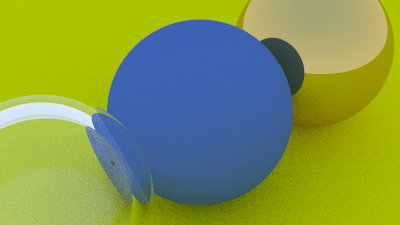
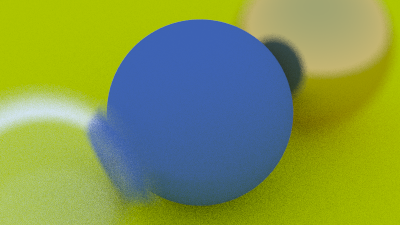
defocus blur

Changed region(s): [[0.0, 0.3733, 0.42, 1.0], [0.63, 0.0, 0.99, 0.4356], [0.57, 0.0, 0.63, 0.1556]]

diff --git a/src/camera.rs b/src/camera.rs
@@ -9,7 +9,6 @@ use super::Point;
 #[derive(Debug)]
 pub struct Camera {
     center: Point,
-    focal_length: f64,
     viewport: Viewport,
     samples: u32,
     max_depth: u32,
@@ -20,6 +19,10 @@ pub struct Camera {
     u: Vec3,
     v: Vec3,
     w: Vec3,
+    defocus_angle: f64,
+    focus_dist: f64,
+    defocus_disk_u: Vec3,
+    defocus_disk_v: Vec3,
 }
 
 impl Camera {
@@ -31,10 +34,11 @@ impl Camera {
         v_fov: f64,
         lookfrom: Point,
         lookat: Point,
+        focus_dist: f64,
+        defocus_angle: f64,
     ) -> Self {
         let vup = Vec3::up();
         let center = lookfrom;
-        let focal_length = (lookfrom - lookat).len();
         let theta = deg_to_rad(v_fov);
         let h = f64::tan(theta * 0.5);
 
@@ -42,11 +46,14 @@ impl Camera {
         let u = Vec3::cross(&vup, &w).normalized();
         let v = Vec3::cross(&w, &u);
 
-        let viewport = Viewport::new(aspect_ratio, h, image_width, focal_length, center, u, v, w);
+        let viewport = Viewport::new(aspect_ratio, h, image_width, focus_dist, center, u, v, w);
+
+        let defocus_radius = focus_dist * f64::tan(deg_to_rad(defocus_angle * 0.5));
+        let defocus_disk_u = u * defocus_radius;
+        let defocus_disk_v = v * defocus_radius;
 
         Camera {
             center,
-            focal_length,
             viewport,
             samples,
             max_depth,
@@ -57,6 +64,10 @@ impl Camera {
             v,
             w,
             vup,
+            focus_dist,
+            defocus_angle,
+            defocus_disk_u,
+            defocus_disk_v
         }
     }
 
@@ -69,6 +80,8 @@ impl Camera {
             90.0,
             Point::zero(),
             Point::new(0.0, 0.0, -1.0),
+            10.0,
+            0.0
         )
     }
 
@@ -130,9 +143,15 @@ impl Camera {
             + (j as f64 * self.viewport.pixel_delta_v);
         let sample = pixel_center - self.pixel_sample_square();
 
-        let ray_direction = sample - self.center;
+        let ray_origin = if self.defocus_angle <= 0.0 {
+            self.center
+        }
+        else {
+            self.defocus_disk_sample()
+        };
+        let ray_direction = sample - ray_origin;
 
-        Ray::new(self.center, ray_direction)
+        Ray::new(ray_origin, ray_direction)
     }
 
     fn pixel_sample_square(&self) -> Vec3 {
@@ -141,6 +160,11 @@ impl Camera {
         let py = -0.5 + utilities::rand();
 
         (px * self.viewport.pixel_delta_u) + (py * self.viewport.pixel_delta_v)
+    }
+
+    fn defocus_disk_sample(&self) -> Point {
+        let p = Point::rand_in_unit_disk();
+        self.center + (*p.x() * self.defocus_disk_u) + (*p.y() * self.defocus_disk_v)
     }
 }
 
@@ -162,7 +186,7 @@ impl Viewport {
         aspect_ratio: f64,
         h: f64,
         image_width: usize,
-        focal_length: f64,
+        focus_dist: f64,
         center: Point,
         u: Vec3,
         v: Vec3,
@@ -172,7 +196,7 @@ impl Viewport {
         if image_height < 1 {
             image_height = 1;
         }
-        let viewport_height = 2.0 * h * focal_length;
+        let viewport_height = 2.0 * h * focus_dist;
         let viewport_width = viewport_height * (image_width as f64 / image_height as f64);
         let viewport_u = viewport_width * u;
         let viewport_v = viewport_height * -v;
@@ -180,7 +204,7 @@ impl Viewport {
         let pixel_delta_v = viewport_v / image_height as f64;
 
         // get the viewport plane position, then move it toi the center
-        let viewport_upper_left = center - focal_length * w - viewport_u * 0.5 - viewport_v * 0.5;
+        let viewport_upper_left = center - focus_dist * w - viewport_u * 0.5 - viewport_v * 0.5;
 
         let pixel_00 = viewport_upper_left + 0.5 * (pixel_delta_u + pixel_delta_v);
 

diff --git a/src/vec3.rs b/src/vec3.rs
@@ -3,7 +3,7 @@ use std::ops::{
     Add, AddAssign, Div, DivAssign, Index, IndexMut, Mul, MulAssign, Neg, Sub, SubAssign,
 };
 
-use crate::interval;
+use crate::utilities::{rand, rand_range};
 
 #[derive(Debug, Clone, Copy)]
 pub struct Vec3 {
@@ -116,7 +116,7 @@ impl Vec3 {
             }
         }
     }
-    
+
     #[inline(always)]
     pub fn rand_unit() -> Vec3 {
         Vec3::normalized(&Vec3::rand_unit_in_sphere())
@@ -127,9 +127,18 @@ impl Vec3 {
         let on_unit_sphere = Vec3::rand_unit();
         if Vec3::dot(&on_unit_sphere, normal) > 0.0 {
             on_unit_sphere
-        }
-        else {
+        } else {
             -on_unit_sphere
+        }
+    }
+
+    #[inline(always)]
+    pub fn rand_in_unit_disk() -> Vec3 {
+        loop {
+            let p = Vec3::new(rand_range(-1.0, 1.0), rand_range(-1.0, 1.0), 0.0);
+            if p.len_squared() < 1.0 {
+                return p;
+            }
         }
     }
 
@@ -137,7 +146,7 @@ impl Vec3 {
     pub fn near_zero(&self) -> bool {
         // small number
         let s = 1e-8;
-        *self.x() < s && *self.y() < s && *self.z() < s 
+        *self.x() < s && *self.y() < s && *self.z() < s
     }
 
     pub fn reflect(v: &Vec3, normal: &Vec3) -> Vec3 {
@@ -147,7 +156,7 @@ impl Vec3 {
     pub fn refract(uv: &Vec3, normal: &Vec3, refraction_index: f64) -> Vec3 {
         let cos_theta = f64::min(Vec3::dot(&(-*uv), normal), 1.0);
         let r_out_perp = refraction_index * (*uv + *normal * cos_theta);
-        let r_out_parallel = - (1.0 - r_out_perp.len_squared()).abs().sqrt() * *normal;
+        let r_out_parallel = -(1.0 - r_out_perp.len_squared()).abs().sqrt() * *normal;
         r_out_perp + r_out_parallel
     }
 }

diff --git a/src/raytracer.rs b/src/raytracer.rs
@@ -24,6 +24,8 @@ impl Raytracer {
                 20.0,
                 Point::new(-2.0, 2.0, 1.0),
                 Point::new(0.0, 0.0, -1.0),
+                3.4,
+                10.0,
             ),
             //camera: Camera::default(),
             components: 3,
